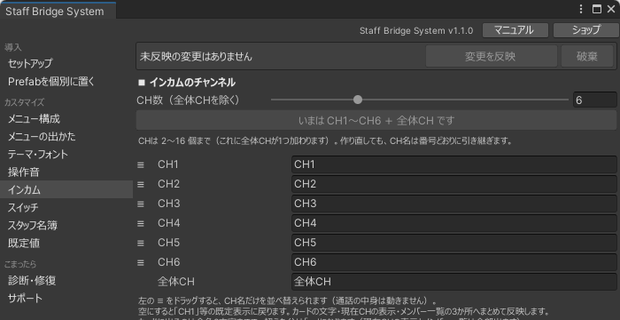
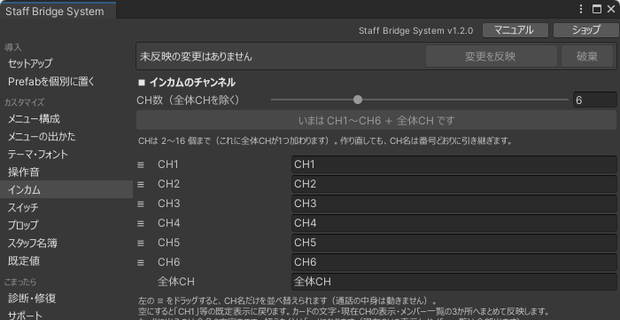
SBSマニュアル: v1.2.0 のプロップインベントリを追加する
- 導入: セットアップの「プロップを使う」（既定オフ）と、既存ワールドの更新手順を追記
- 使い方・設定リファレンス: プロップインベントリの操作、登録の項目、上限、登録の削除を追加
- 機能一覧・やりたいことから探す・運用・トラブルシューティング・トップ・スタッフ向けページに追記
- 更新履歴に 1.2.0（公開日未定）を追加し、新機能に「v1.2.0 以降」「v1.1.0 以降」を明記
- UI画像を v1.2.0 の表記で撮り直し、プロップのパネル画像を追加

Changed region(s): [[0.0, 0.6875, 0.0919, 1.0], [0.5823, 0.0625, 0.7355, 0.125]]

diff --git a/docs/staff-bridge-system/howto.md b/docs/staff-bridge-system/howto.md
@@ -15,7 +15,8 @@
 
 | ページ | 内容 |
 |---|---|
-| メニュー構成 | タブの並べ替えと ON / OFF、メニューの作り直し、テレポート先の編集、定型文編集、ノート編集、画像資料編集（各編集窓はドラッグ並び替え対応） |
+| メニュー構成 | タブの並べ替えと ON / OFF、メニューの作り直し、テレポート先の編集、定型文編集、ノート編集、画像資料編集（各編集窓はドラッグ並び替え対応）、プロップ編集を開く |
+| プロップ | プロップのタブに出す物の登録・変更（既定はオフ） |
 | メニューの出かた | 開く長押し秒・Desktop開閉キー・スティックのしきい値、表示スケール／距離／下オフセット、自動で閉じる距離、最初に開くタブ |
 | テーマ・フォント | 配色テーマの選択、カスタム色、フォント、生成済みメニューへの再着色 |
 | インカム | チャンネル数（2〜16）の変更、各チャンネルの表示名、スタッフ限定モード・送信解除の待ち秒・ジェスチャー発話、インカムの一時停止 |
@@ -36,8 +37,10 @@
 |---|---|
 | 使わないタブを消したい | メニュー構成ページ > 各行のチェックを外す → **この構成でメニューを作り直す**（「設定」タブは常に ON） |
 | タブの並び順を変えたい | メニュー構成ページ > 行をドラッグして並べ替え → **この構成でメニューを作り直す** |
-| 作り直すと設定が消えないか知りたい | テレポート先・チャンネル名・定型文・ノート・画像資料・スイッチの設定・既定値・メニューの位置は引き継がれます。メニュー自体は新しいオブジェクトになるため、外部から参照している場合は貼り直しが必要です |
+| 作り直すと設定が消えないか知りたい | テレポート先・チャンネル名・定型文・ノート・画像資料・スイッチの設定・プロップの登録・既定値・メニューの位置は引き継がれます。メニュー自体は新しいオブジェクトになるため、外部から参照している場合は貼り直しが必要です |
 | 画像資料を登録・差し替えたい | メニュー構成ページ > **画像資料編集を開く**。画像とページ名を最大16枚まで編集（≡でドラッグ並べ替え可）し、**画像資料に反映**を押す。メニューの作り直しは不要 |
+| プロップのタブを追加したい | セットアップ窓の **プロップを使う** をオンにして **セットアップする**（既定はオフ）。すでにメニューがあるワールドは、診断・修復の **プロップを追加** |
+| プロップを登録したい | メニュー構成ページ > **プロップ編集を開く**。出したい物を指定して **登録する**。詳しくは [設定リファレンス](reference.md#prop) |
 | ノートの内容を書き換えたい | メニュー構成ページ > **ノート編集を開く**（ページの追加・≡でドラッグ並べ替え・本文の編集。最大6ページ） |
 | スイッチの発火先を決めたい | スイッチページ > **＋ 行を追加** → ラベル／発火先／イベント名 を入れる（発火先だけはHierarchyからドラッグ、または右の◎から選ぶ） |
 | スイッチでオブジェクトを出し入れしたい | 同梱の `StaffObjectToggle` を空のオブジェクトに付け、**対象**に出し入れしたい GameObject を入れる。スイッチページの発火先にそれを指定し、イベント名を `Toggle`（`TurnOn` / `TurnOff` も可）にする |

diff --git a/docs/staff-bridge-system/features.md b/docs/staff-bridge-system/features.md
@@ -19,6 +19,7 @@
 | ノート | 全員に見える共有メモと、自分用メモ。進行台本やチェックリストの掲示に使う。どちらも視界の右下に表示しておける | [使い方](usage.md#note) / [設定](reference.md#cue) |
 | 画像資料 | ワールド制作者が用意した画像をメニューで確認し、行の2回押しで本人の手元へ出す（板の下のスライダーで拡大・縮小。VRは持った状態でトリガーを引き、右スティックの上下でも可）。表示済みの行を再度押すと手元から非表示にできる。最大16枚、複数枚を同時表示できる | [使い方](usage.md#image) / [設定](reference.md#image) |
 | スイッチ | SBSメニューからワールド内のギミックへイベントを送る。誰がいつ押したかの履歴が残る | [使い方](usage.md#switch) / [設定](reference.md#trigger) |
+| プロップインベントリ | ワールド制作者が登録した小道具（プロップ）を、メニューから手元（ローカル）や全員の前（グローバル）に出し入れする。最大32件、1件あたり最大64個。途中参加の人にも表示される。**v1.2.0 以降。初期状態ではオフ** | [使い方](usage.md#prop) / [導入](install.md#prop-enable) / [設定](reference.md#prop) |
 | 通知ログ | 受信・タイマーの時間切れ・人の出入りを、視界の隅の1本のログにまとめて流す。左下／左上／表示しないを選択可能 | [使い方](usage.md#notice-log) / [設定](reference.md#notice-log) |
 | スタッフ管理 | 在室者を当日スタッフにする／当日スタッフを外す。常設スタッフで現在スタッフONの人だけが開けるタブ | [使い方](usage.md#staff-manage) / [設定](reference.md#grant-panel) |
 | 設定 | 音量・UI サイズ・発話方式・VR耳元操作・受信時の発話者名・通知ログとノートの位置を各自で調整する。再入場しても残る | [使い方](usage.md#settings) / [既定値](reference.md#settings-defaults) |
@@ -49,6 +50,7 @@
 | Prefab を個別に置く | 各ギミックを個別に追加する。配置と同時に名簿へ接続される | [導入](install.md#single-prefab) |
 | メニュー構成 | タブの並べ替えと ON / OFF。テレポート先・定型文・ノート・画像資料の編集（ドラッグ並び替え対応）。設定を引き継いだまま作り直せる | [やりたいことから探す](howto.md) |
 | 画像資料編集 | 画像とページ名を最大16枚まで差し替え・ドラッグ並べ替え。メニューを作り直さずに反映できる | [やりたいことから探す](howto.md#menu-config) |
+| プロップインベントリ | 小道具の登録・出し方・個数・サムネイルの設定（v1.2.0 以降） | [導入](install.md#prop-enable) / [設定](reference.md#prop) |
 | メニューの出かた | 開く操作、出る位置と大きさ、閉じかた、最初に開くタブ | [設定](reference.md#menu-shell) |
 | テーマ・フォント | 配色テーマ9種＋カスタム（役割色12色を個別編集）、フォントの差し替え。生成済みのメニューにも適用できる | [カスタマイズ](customize.md) |
 | インカム | チャンネル数・チャンネル名、インカムの届き方と発話、一時停止 | [運用](operation.md#incom-power) |

diff --git a/docs/staff-bridge-system/install.md b/docs/staff-bridge-system/install.md
@@ -59,6 +59,7 @@ VCC / ALCOM から [FukuroUdon](https://github.com/mimyquality/FukuroUdon)（`co
 |---|---|
 | 最初からスタッフにしておく人 | VRChatの表示名を1行に1人ずつ入力。空欄なら既存の名簿を維持します |
 | 手動でスタッフになった人を再入場時にスタッフへ戻す | 当日スタッフの付与を保存し、次のインスタンスでも復帰させます（既定ON） |
+| プロップを使う | v1.2.0 以降。オンにすると、SBSメニューに「プロップ」タブが加わります（**既定はオフ**）。登録は[プロップ編集](reference.md#prop)で行います<span id="prop-enable"></span> |
 
 名簿・SBSメニュー・インカムの音声基盤・スタッフ切替スイッチが自動配置され、相互配線が完了します。
 
@@ -118,7 +119,7 @@ Hierarchyでオブジェクトを選択し、右クリック > **GameObject > MG
 事前にプロジェクトのバックアップを取ってから行ってください。
 
 1. 新しい unitypackage をプロジェクトへインポートします。
-2. セットアップ窓の「診断・修復」を開き、追加や更新の項目（「声の大きさの調整を追加」「メニューを手前に描く」など）が表示されていれば実行します。
+2. セットアップ窓の「診断・修復」を開き、追加や更新の項目（「声の大きさの調整を追加」「メニューを手前に描く」など）が表示されていれば実行します。v1.2.0で加わった「プロップタブ」の項目は、プロップを使う場合にだけ **プロップを追加** を押してください（既定はオフです）。
 3. Prefab のままお使いの場合、インポート直後に診断・修復の「インカムの接続」の警告が一度表示されることがあります。「インカムを再リンク」を押すと解消します。
 4. ClientSim でメニュー操作やインカム通話を確認します。
 

diff --git a/docs/staff-bridge-system/troubleshoot.md b/docs/staff-bridge-system/troubleshoot.md
@@ -121,6 +121,18 @@ FukuroUdon の内部仕様の差異による不具合を防ぐため、動作確
 
 ---
 
+## プロップのタブが出ない・プロップが出せない { #prop-trouble }
+
+プロップインベントリは v1.2.0 以降の機能です。
+
+- **タブが無い**：初期状態ではオフです。セットアップ窓の「プロップを使う」をオンにして実行してください（[導入](install.md#prop-enable)）
+- **ボタンが押せない**：スタッフ権限が必要です。グローバルが「上限です」のときは、最大同時出現数に達しています。回収するか、最大同時出現数を増やしてください
+- **登録したプロップが消えた**：登録で参照元オブジェクトは非アクティブになります。メニューから出すと複製が現れます
+- **ミラーに映らない**：ミラーの Reflect Layers に Walkthrough を含めてください（[設定リファレンス](reference.md#prop)）
+- **他の人と位置が違う**：同期方式が「同期なし」のプロップを Pickup で持ち運ぶと食い違います。持ち運ぶ物は Manual Object Sync か VRC Object Sync にしてください
+
+---
+
 ## 通知ログが出ない・邪魔になる
 
 - 出るのはスタッフだけです。スタッフ状態を確認してください

diff --git a/docs/staff-bridge-system/changelog.md b/docs/staff-bridge-system/changelog.md
@@ -1,5 +1,13 @@
 # Staff Bridge System 更新履歴
 
+## 1.2.0（公開日未定）
+
+- **プロップインベントリ**：登録した小道具（プロップ）を、SBSメニューから手元（ローカル）や全員の前（グローバル）に出し入れする機能を追加。**初期状態ではオフ**で、セットアップ窓の「プロップを使う」で追加する（[導入](install.md#prop-enable)）
+- **診断・修復の拡張**：既存のSBSメニューへプロップのタブを追加する項目に対応
+- **メニューの作り直し**：プロップの登録を引き継ぐ
+
+※既存ワールドからの更新手順は [既存のワールドを更新する](install.md#update) を参照してください。
+
 ## 1.1.0（2026-10-30）
 
 - **インカム・メガホンの声の大きさ調整**：ワールド全体の既定値（セットアップウィンドウ）およびスタッフ各自の調整スライダー（設定タブ）を追加

diff --git a/docs/staff-bridge-system/for-staff.md b/docs/staff-bridge-system/for-staff.md
@@ -43,6 +43,10 @@
 
 [スイッチ](usage.md#switch)
 
+## プロップインベントリ { #prop }
+
+[プロップインベントリ](usage.md#prop)
+
 ## 設定（自分だけの設定） { #_15 }
 
 [設定（自分だけの設定）](usage.md#settings)
